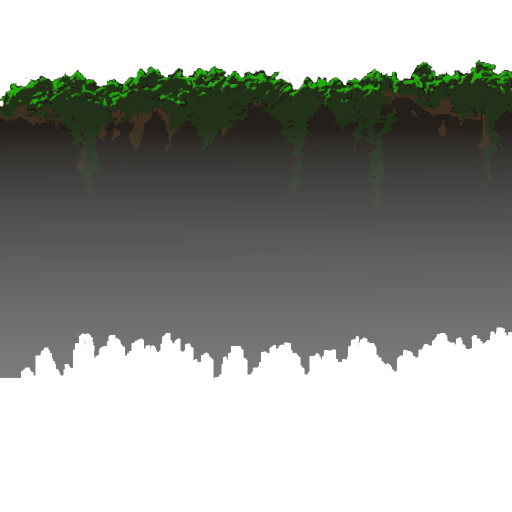
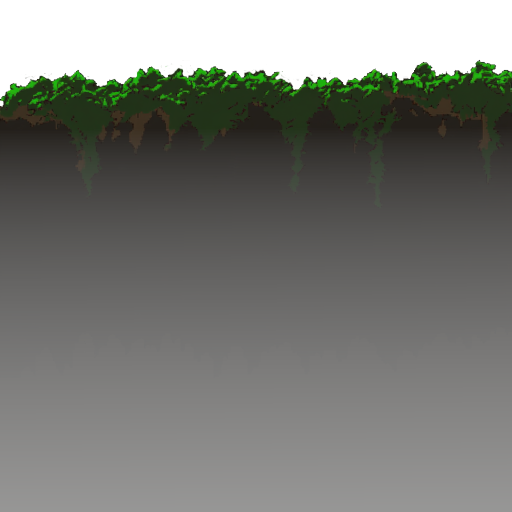
bugfix

diff --git a/src/maze/mclachlan/crusader/CrusaderEngine32.java b/src/maze/mclachlan/crusader/CrusaderEngine32.java
@@ -2303,13 +2303,16 @@ public class CrusaderEngine32 implements CrusaderEngine
 	}
 
 	/*-------------------------------------------------------------------------*/
+	private float getEffectiveWallDistance(int castColumn, int depth)
+	{
+		float distance = blockHitRecord[castColumn][depth].distance;
+		return distance < 0 ? Float.MAX_VALUE : distance;
+	}
+
+	/*-------------------------------------------------------------------------*/
 	private void drawObjects(int castColumn, int depth)
 	{
-		float wallDistance = blockHitRecord[castColumn][depth].distance;
-		if (wallDistance < 0)
-		{
-			wallDistance = Float.MAX_VALUE;
-		}
+		float wallDistance = getEffectiveWallDistance(castColumn, depth);
 
 		int objectCount = objects.length - 1;
 		for (; objectCount >= 0; objectCount--)
@@ -3143,7 +3146,7 @@ public class CrusaderEngine32 implements CrusaderEngine
 		int castColumn,
 		int depth)
 	{
-		if (blockHitRecord[castColumn][depth].distance > obj.apparentDistance)
+		if (getEffectiveWallDistance(castColumn, depth) > obj.apparentDistance)
 		{
 			int startScreenY;
 			int topY = projectionPlaneHeight/2 -obj.projectedWallHeight/2 +obj.projectedTextureOffset;

diff --git a/doc/design/backlog.md b/doc/design/backlog.md
@@ -33,6 +33,7 @@ identified from the source tree and are not necessarily in `stufftodo.txt`.
 | P0-4 | bug | "Hidden stuff" tile script broken | Secret/hidden discovery no longer triggers; see `HiddenStuff` / Scouting path. (stufftodo) | M | todo |
 | P0-5 | bug | JCraftPlayer SFX infinite exception spin | EOF (`read` returns -1) was not treated as end-of-stream in `readBody`; corrupt `SyncState` and stale `wrote()` caused busy-loop `IndexOutOfBoundsException` on SFX threads, heap exhaustion, apparent hang. Fixed in `JCraftPlayer`. (code) | S | done |
 | P0-6 | bug | Raycaster OOB columns skip floor/ceiling | When a cast column ray exits map bounds with no wall hit, `drawColumn` returned before floor/ceiling cast, leaving sky-only voids on clifftop views. Fixed open-horizon floor/ceiling path and OOB sample handling in `CrusaderEngine32`. (code) | S | done |
+| P0-7 | bug | Objects missing on transparent-floor columns | `drawObjectColumn` still rejected `blockHitRecord.distance == -1` after OOB fix; open/`No_WAll` columns never painted sprites. Fixed via shared `getEffectiveWallDistance` in `CrusaderEngine32`. (code) | S | done |
 
 ---
 
